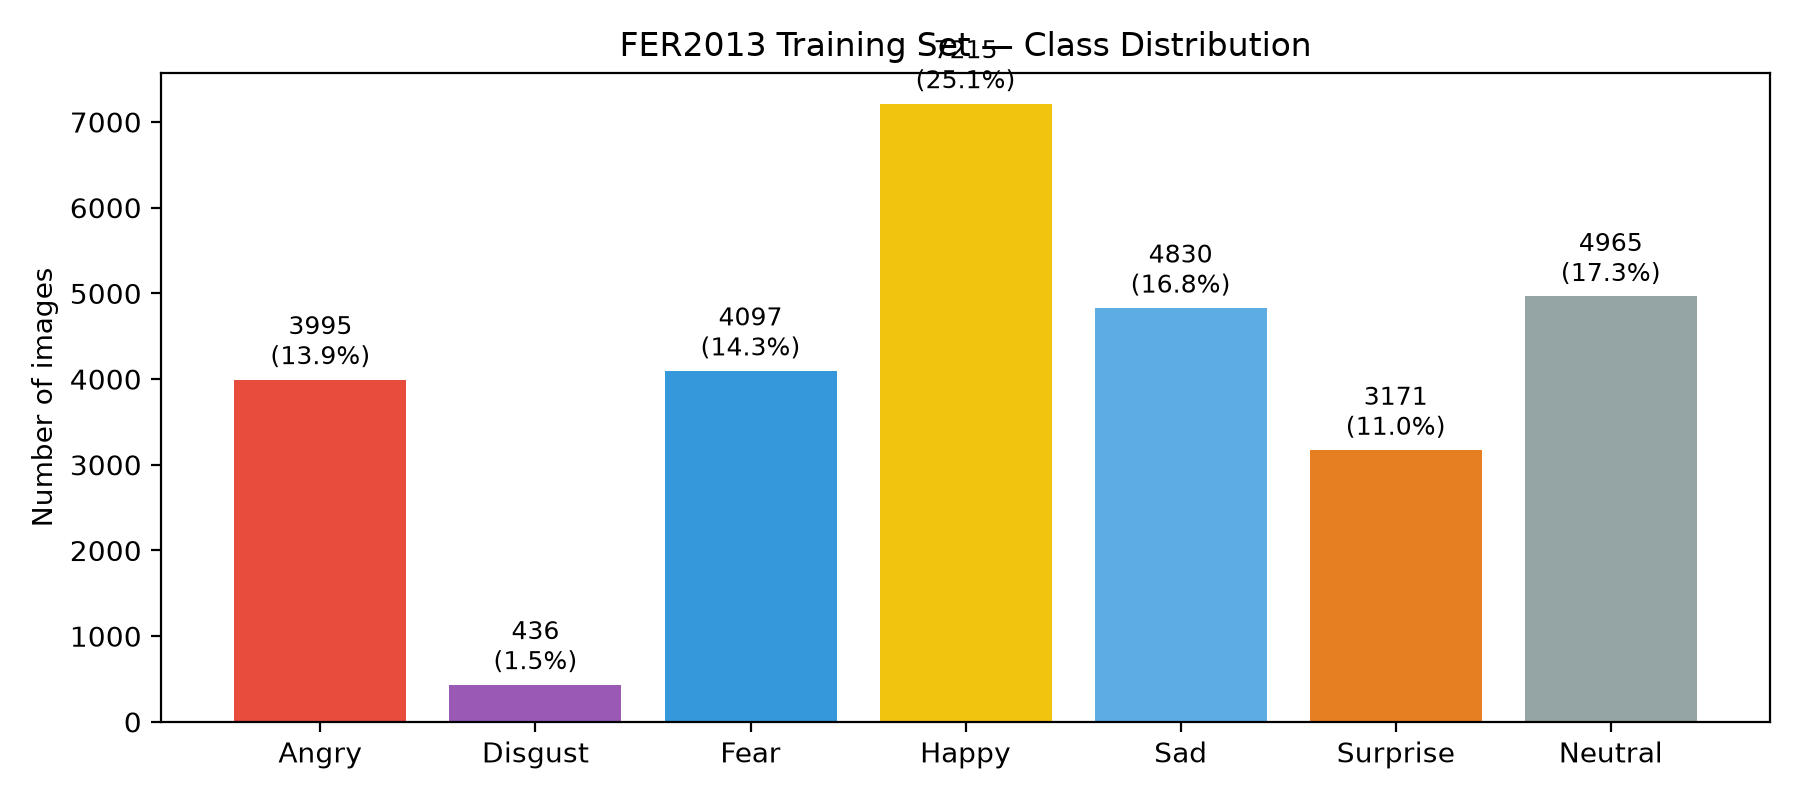
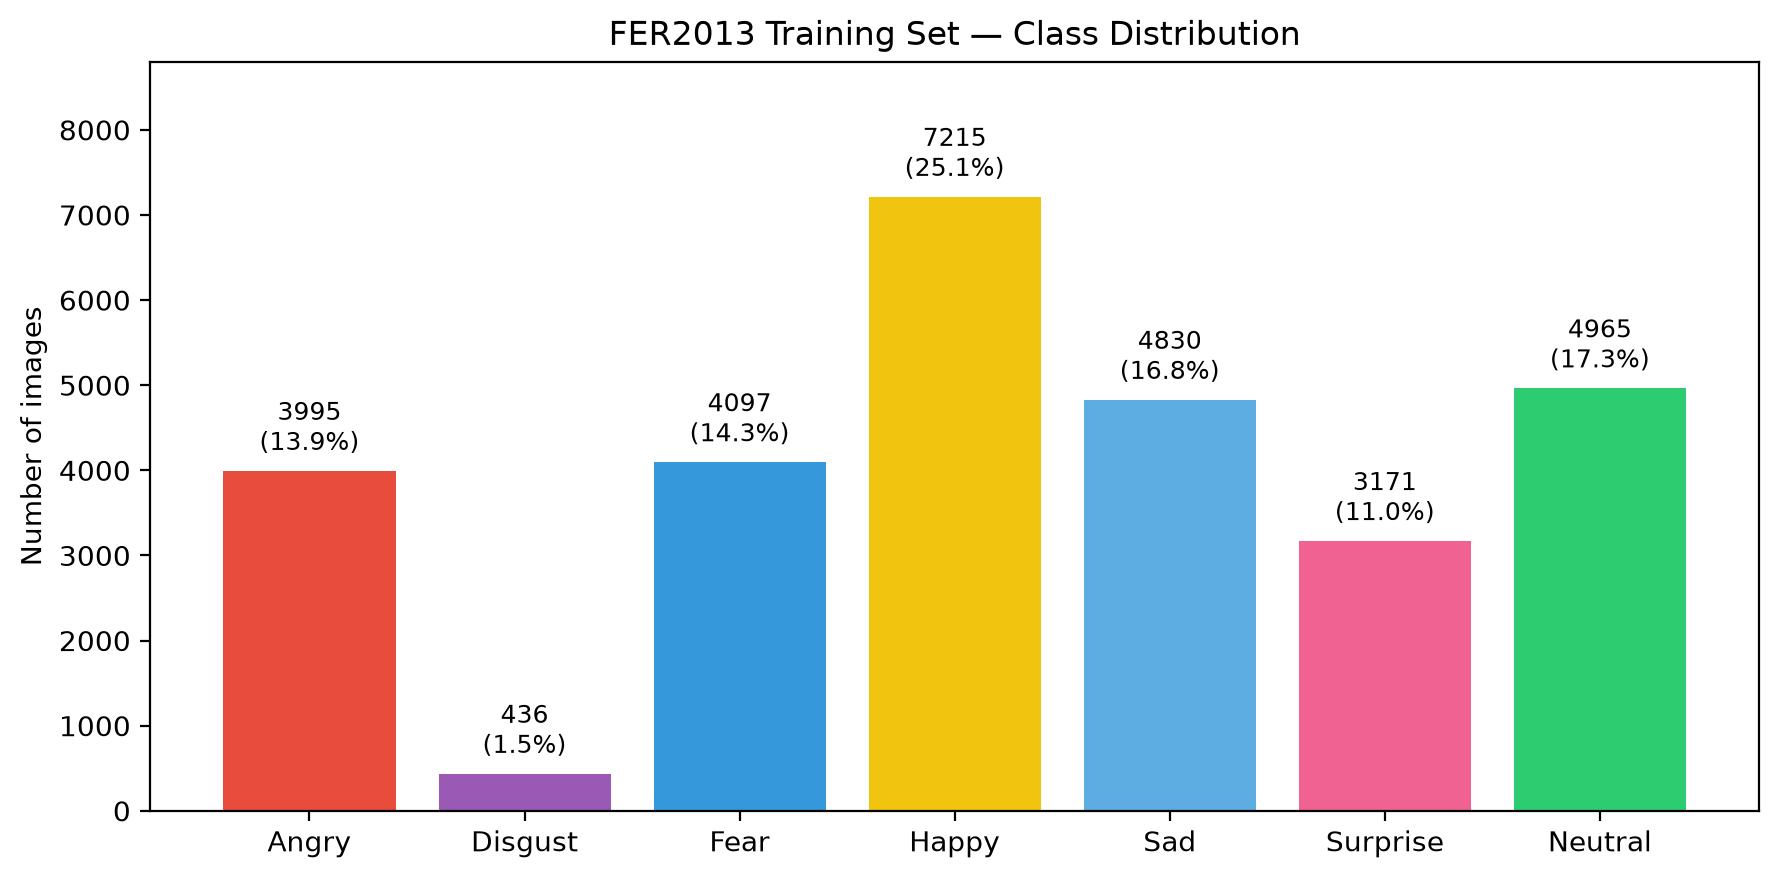
added wandb report

Changed region(s): [[0.0, 0.0, 0.9893, 0.9688], [0.5874, 0.3125, 0.7111, 0.4688], [0.371, 0.375, 0.4637, 0.5312]]

diff --git a/README.md b/README.md
@@ -386,7 +386,7 @@ best = max(all_arch_results, key=lambda x: x['best_val_acc'])
 
 შერჩეული არქიტექტურათაშორისი ანალიზი, ჩარტები და გაშვებების შედარებები:
 
-**[Wandb Report](https://wandb.ai/lchit22-free-university-of-tbilisi-/fer2013-expression-recognition)**
+**[Wandb Report — Facial Expression Recognition](https://api.wandb.ai/links/lchit22-free-university-of-tbilisi-/rsznxffa)**
 
 ---
 